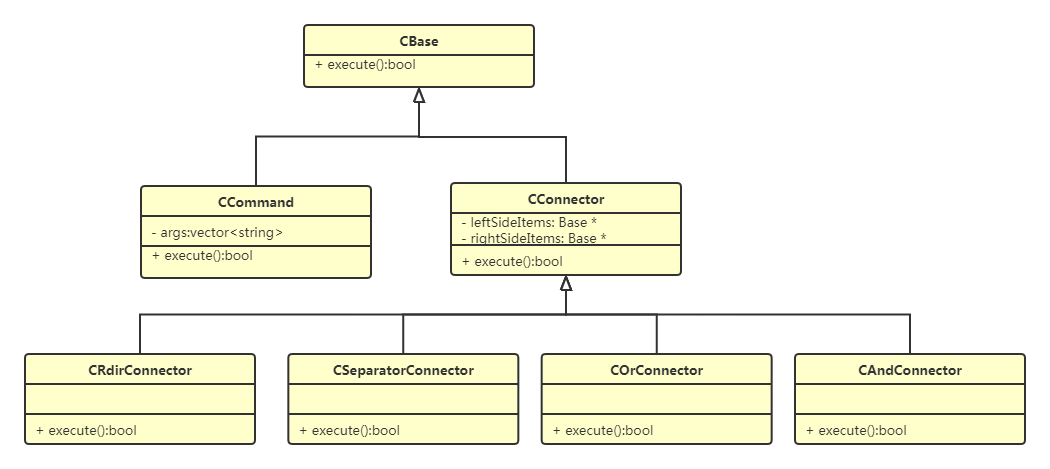
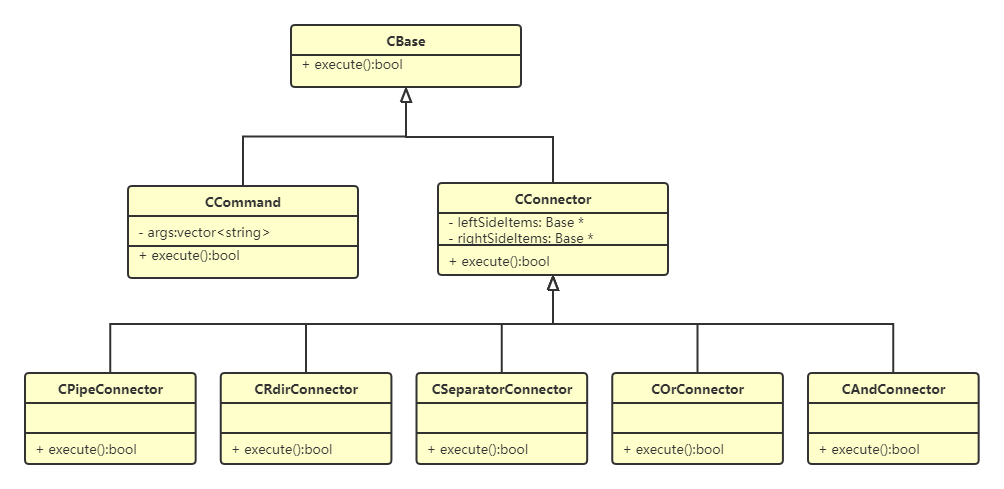
readme

Changed region(s): [[0.0, 0.2687, 0.988, 0.9552], [0.2779, 0.0299, 0.5249, 0.2388]]

diff --git a/README.md b/README.md
@@ -31,6 +31,10 @@ There's a fundamental class for all the other classes. And all the other classes
    
    The redirection connector class. It will redirect the input and output according to the specific operators.
 
+ * CPipeConnector
+   
+   The piple connector class. It will implement the pipe function between system calls.
+
  * CSpeparatorConnector
  
    The semicolon connector class. It will implement the function of the semicolon connector in the input string.
